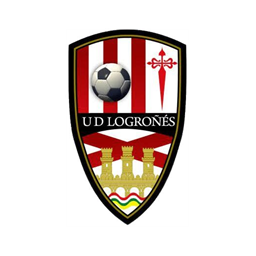
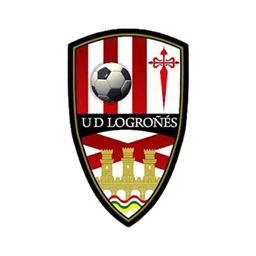
actualizar escudo del Logroñes

Changed region(s): [[0.25, 0.0938, 0.75, 0.9062]]

diff --git a/src/routes/index.tsx b/src/routes/index.tsx
@@ -63,7 +63,7 @@ export const Route = createFileRoute("/")({
 
 // Las imágenes se sirven con una versión en la URL para que el móvil no se
 // quede con la copia antigua en caché tras normalizar los escudos.
-const crestSrc = (file: string) => `${file}?v=4`;
+const crestSrc = (file: string) => `${file}?v=5`;
 
 // En el servidor no hay layout: el prerenderizado usa useEffect y el navegador
 // mide antes de pintar para que no se vea el salto de escala.
